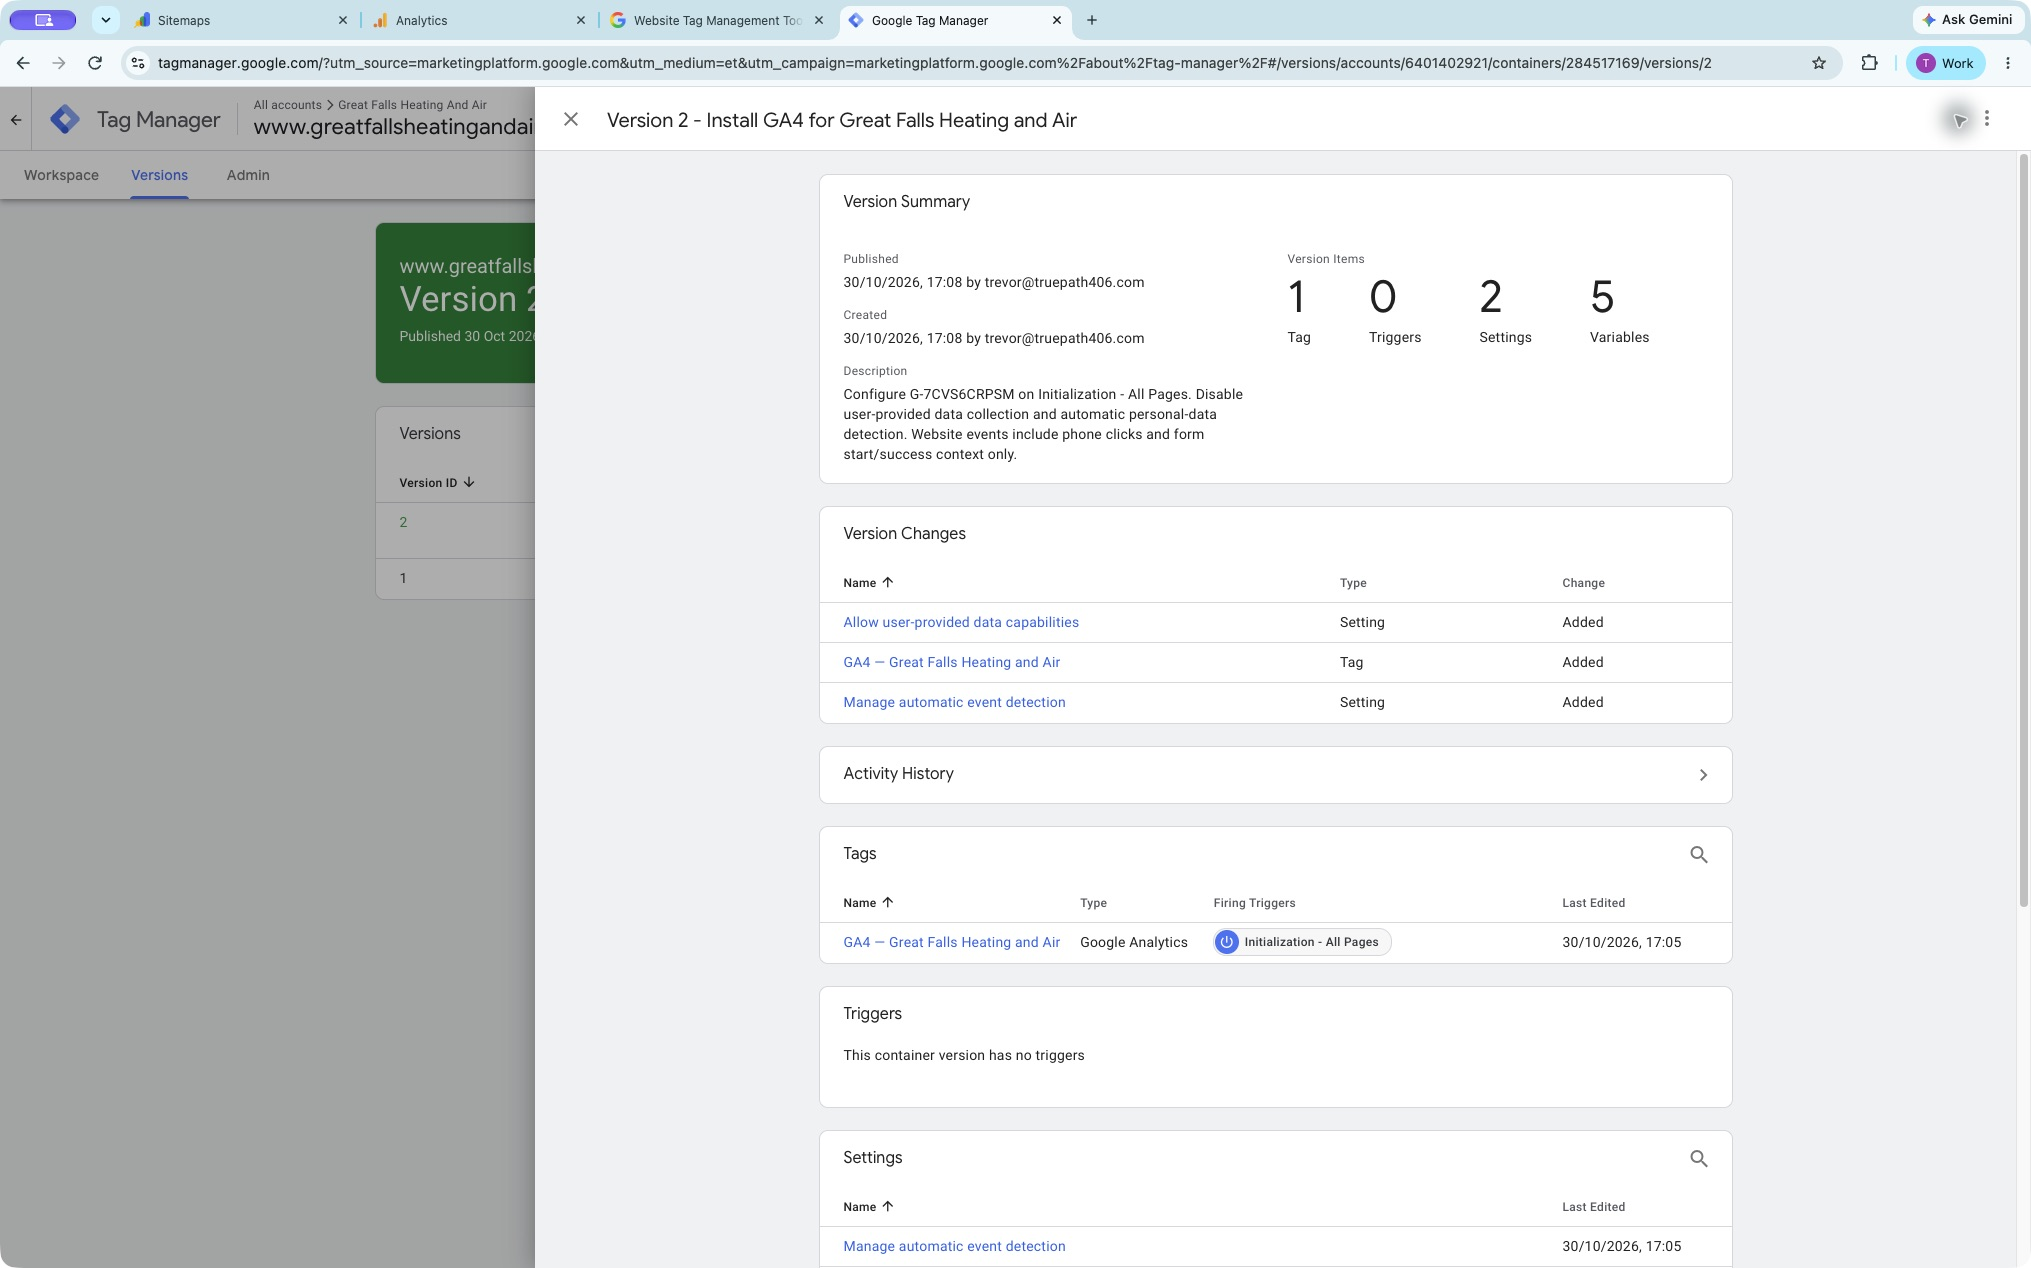
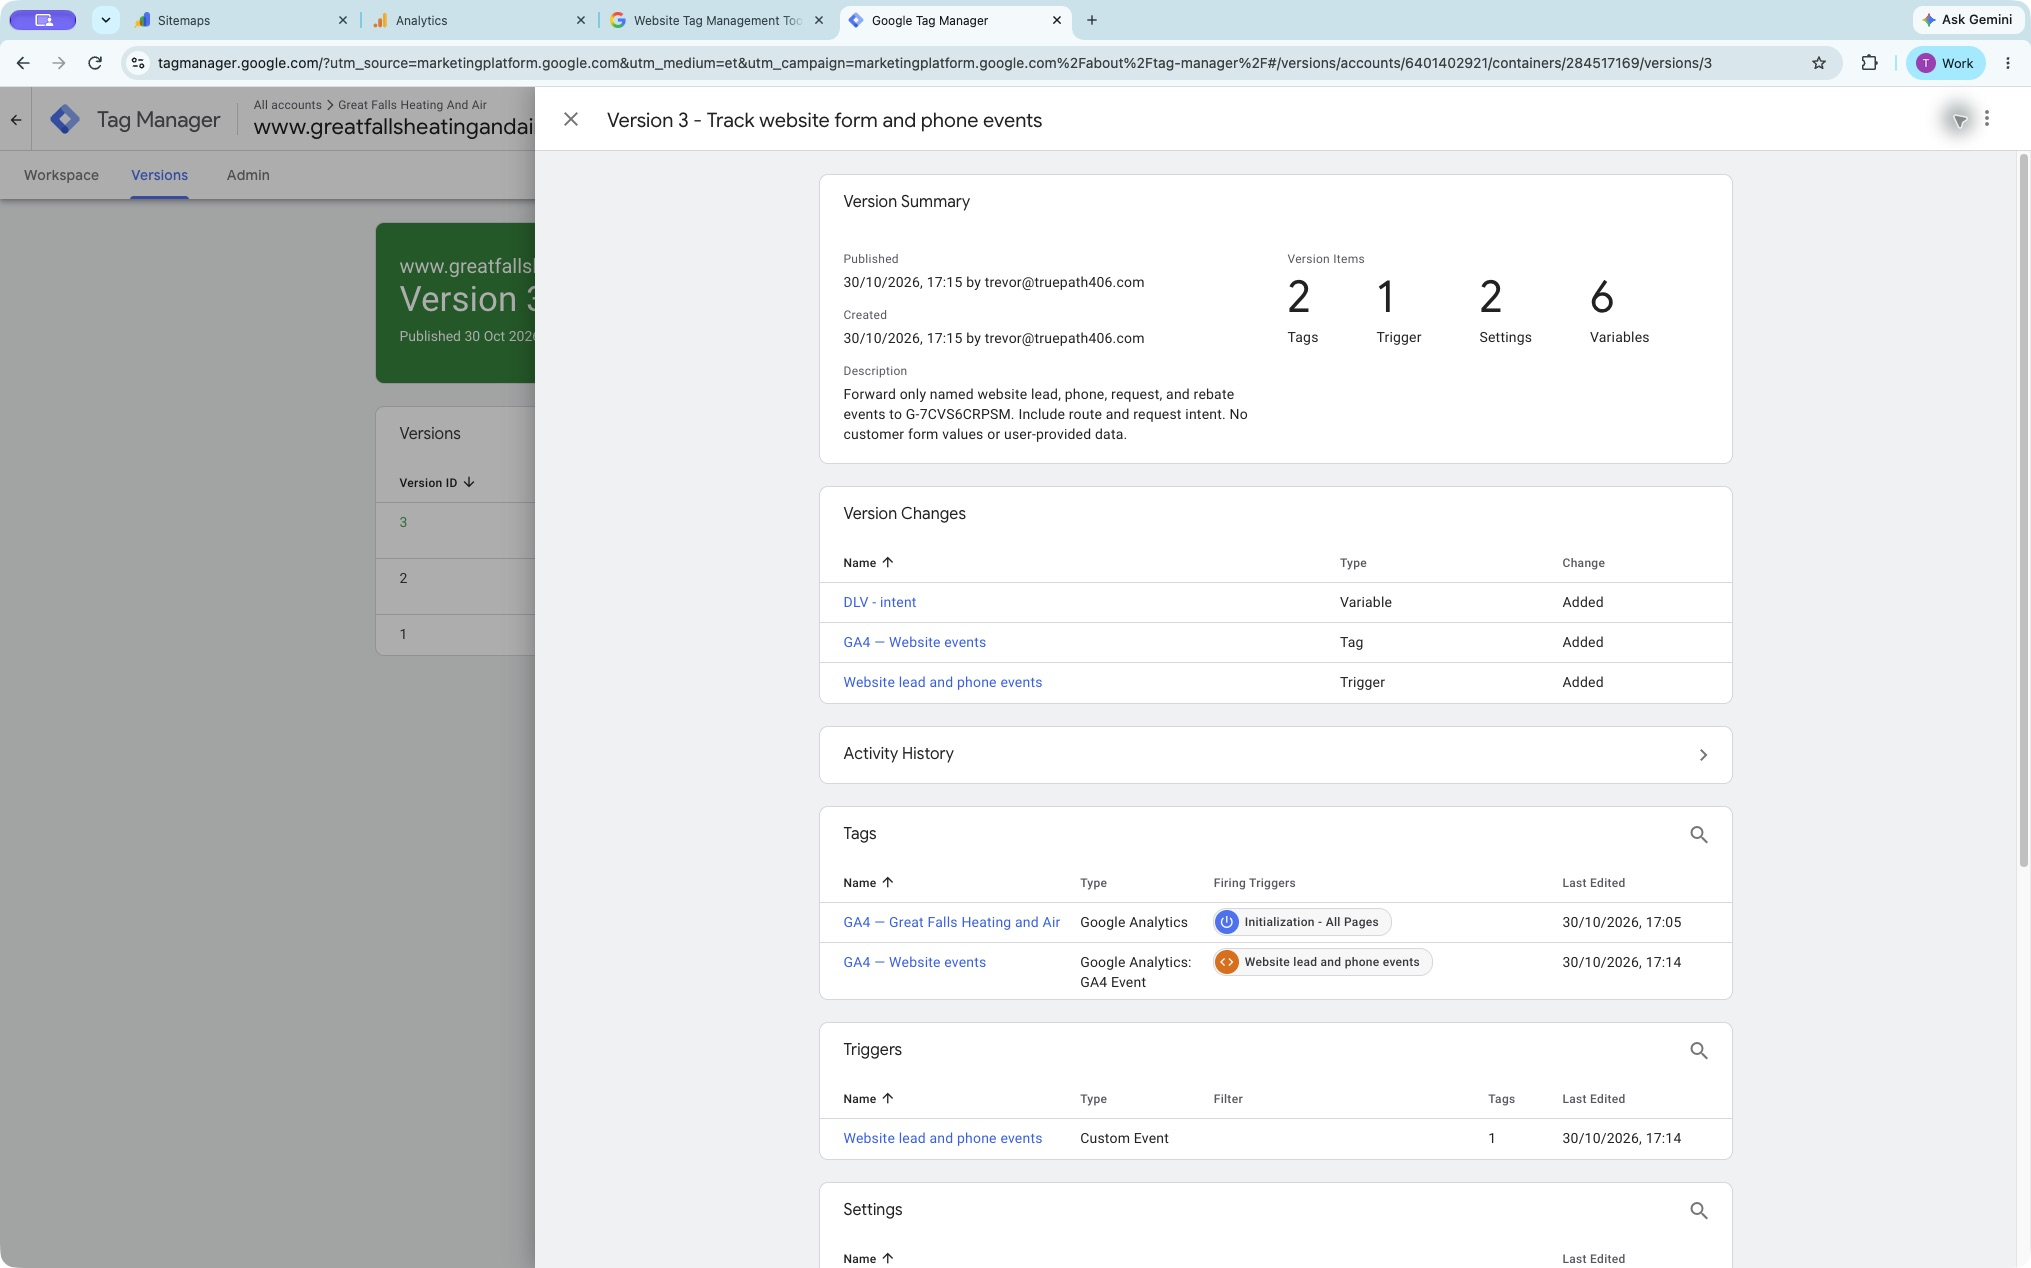
Route website analytics events through the published GTM event tag

diff --git a/src/lib/analytics/events.ts b/src/lib/analytics/events.ts
@@ -1,5 +1,3 @@
-import { GA_MEASUREMENT_ID } from "./config";
-
 export type AnalyticsEvent =
   | {
       name: "phone_click";
@@ -69,20 +67,14 @@ export function trackEvent(event: AnalyticsEvent): void {
     // Fail silently in non-browser environments
   }
 
-  // Keep GTM custom events and direct GA4 delivery distinct. No form field
+  // GTM forwards these named events to GA4. No form field
   // values are passed here; only event context and the public business number.
   const windowWithDataLayer = window as unknown as {
     dataLayer?: Record<string, unknown>[];
-    gtag?: (command: "event", name: string, parameters: Record<string, unknown>) => void;
   };
   try {
     if (Array.isArray(windowWithDataLayer.dataLayer)) {
       windowWithDataLayer.dataLayer.push({ event: event.name, ...event.properties });
     }
-  } catch { /* Analytics must never interrupt an inquiry. */ }
-  try {
-    windowWithDataLayer.gtag?.("event", event.name, {
-      ...event.properties, send_to: GA_MEASUREMENT_ID,
-    });
   } catch { /* Analytics must never interrupt an inquiry. */ }
 }

diff --git a/src/__tests__/analytics.test.ts b/src/__tests__/analytics.test.ts
@@ -4,14 +4,10 @@ import { trackEvent } from "@/lib/analytics/events";
 afterEach(() => vi.unstubAllGlobals());
 
 describe("Analytics delivery", () => {
-  it("forwards form-success context to the configured GA4 property without customer fields", () => {
-    const gtag = vi.fn();
+  it("queues one form-success event with context and no customer fields", () => {
     const dataLayer: unknown[] = [];
-    vi.stubGlobal("window", { dispatchEvent: vi.fn(), dataLayer, gtag });
+    vi.stubGlobal("window", { dispatchEvent: vi.fn(), dataLayer });
     trackEvent({ name: "lead_form_submit_success", properties: { intent: "estimate", route: "/contact" } });
-    expect(gtag).toHaveBeenCalledExactlyOnceWith("event", "lead_form_submit_success", {
-      intent: "estimate", route: "/contact", send_to: "G-7CVS6CRPSM",
-    });
     expect(dataLayer).toEqual([{ event: "lead_form_submit_success", intent: "estimate", route: "/contact" }]);
   });
 

diff --git a/src/components/GoogleTags.tsx b/src/components/GoogleTags.tsx
@@ -28,7 +28,6 @@ export function GoogleTags() {
     <>
       <Script id="google-tag-initialization" strategy="afterInteractive">
         {`window.dataLayer = window.dataLayer || [];
-function gtag(){dataLayer.push(arguments);}
 (function(w,d,s,l,i){w[l]=w[l]||[];w[l].push({'gtm.start':new Date().getTime(),event:'gtm.js'});
 var f=d.getElementsByTagName(s)[0],j=d.createElement(s),dl=l!='dataLayer'?'&l='+l:'';
 j.async=true;j.src='https://www.googletagmanager.com/gtm.js?id='+i+dl;f.parentNode.insertBefore(j,f);

diff --git a/docs/analytics-setup.md b/docs/analytics-setup.md
@@ -4,15 +4,15 @@ Configured October 30, 2026 for https://www.greatfallsheatingandair.com.
 
 - GA4 measurement ID: `G-7CVS6CRPSM`.
 - GTM container: `GTM-N8H44WVW` (account `6401402921`, container `284517169`).
-- GTM Version 2, **Install GA4 for Great Falls Heating and Air**, was published at 5:08 p.m. Denver time on October 30. No account link or additional account access was added.
+- GTM Version 3, **Track website form and phone events**, was published at 5:15 p.m. Denver time on October 30, following the base GA4 installation in Version 2. No account link or additional account access was added.
 - GA4 configuration lives in the GTM tag **GA4 — Great Falls Heating and Air**, on **Initialization - All Pages**. Do not add a second direct GA4 config or another GA4 tag for this ID: that can duplicate page views.
 - The site loads the GTM bootstrap and noscript fallback through the root layout. The script loads after hydration via Next.js Script, once per page session. Local development and Preview do not load the tags. No additional Vercel variables are needed for these public IDs.
-- The website defines a gtag queue for contextual events, addressed to the single configured GA4 property. The existing custom dataLayer events remain available to GTM. Do not add GA4 Event tags for those same events without removing their direct event forwarding.
+- The website pushes contextual events to `dataLayer`. The GTM tag **GA4 — Website events** uses `{{Event}}` as its event name, `{{Page Path}}` as route, and `{{DLV - intent}}` for request type. Its custom-event trigger is restricted to the six named website events. No duplicate direct gtag event forwarding is installed.
 - GA4 handles default page views and history changes. No additional manual page-view sender is installed.
 
 ## Events
 
-| Event | When | Parameters |
+| Event | When | Data-layer context |
 | --- | --- | --- |
 | `lead_form_start` | First field interaction | intent, route |
 | `lead_form_submit_success` | API confirms successful delivery | intent, source route |
@@ -20,7 +20,7 @@ Configured October 30, 2026 for https://www.greatfallsheatingandair.com.
 | `estimate_cta_click`, `service_request_cta_click` | Existing mobile request control | route, placement |
 | `rebate_source_click` | Where an existing source link calls the event adapter | program ID, provider, public source URL |
 
-Phone clicks are not completed calls. Form success means provider acceptance; opening Thank You directly does not trigger form success. Google enhanced-measurement form events, if present, must not be treated as confirmed leads. Names, personal email addresses, customer phone numbers, locations, and message text are not passed to the analytics adapter. GTM user-provided data collection is disabled. The privacy page was updated to describe the Analytics/GTM installation, cookies, technical information, and opt-out options.
+The GA4 event tag forwards route and intent; additional data-layer context remains available for later GTM configuration. Phone clicks are not completed calls. Form success means provider acceptance; opening Thank You directly does not trigger form success. Google enhanced-measurement form events, if present, must not be treated as confirmed leads. Names, personal email addresses, customer phone numbers, locations, and message text are not passed to the analytics adapter. GTM user-provided data collection is disabled. The privacy page was updated to describe the Analytics/GTM installation, cookies, technical information, and opt-out options.
 
 ## Reporting follow-up
 
